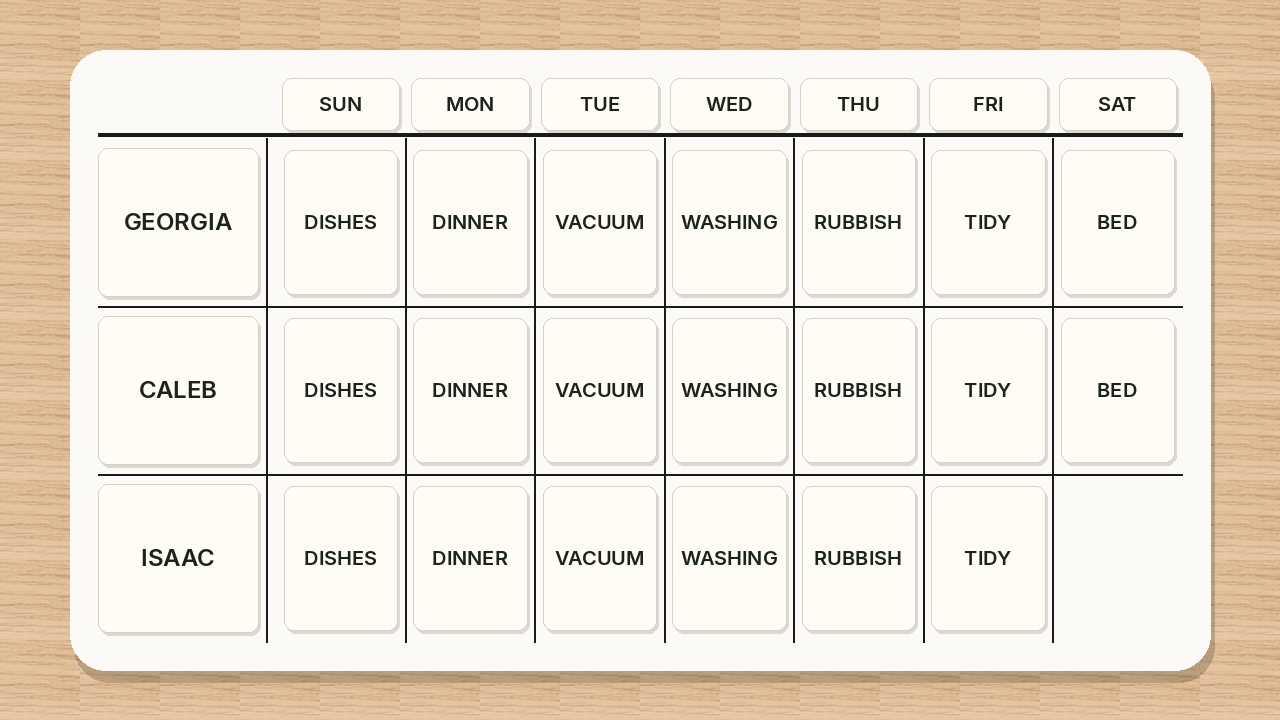
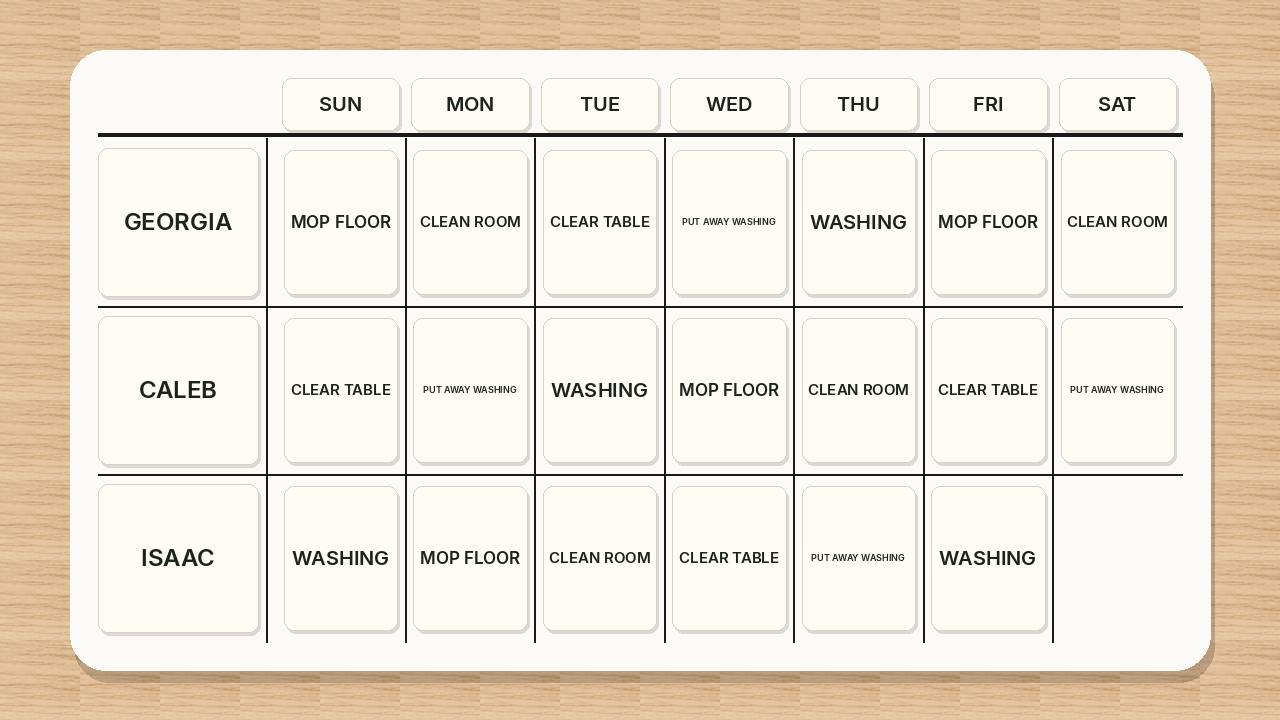
Lock Chores board and Chores Word Pack to five capital phrases
Replace leftover chore words with MOP FLOOR, CLEAN ROOM, CLEAR TABLE,
PUT AWAY WASHING, and WASHING. Sticker Pack follows the same five words.
Cache-bust to v=2.40.

diff --git a/pack-chores.html b/pack-chores.html
@@ -9,7 +9,7 @@
   <link rel="preconnect" href="https://fonts.googleapis.com">
   <link rel="preconnect" href="https://fonts.gstatic.com" crossorigin>
   <link href="https://fonts.googleapis.com/css2?family=DM+Sans:opsz,wght@9..40,600&family=Fraunces:opsz,wght@9..144,600&family=Nunito+Sans:wght@500;700;800&display=swap" rel="stylesheet">
-  <link rel="stylesheet" href="css/styles.css?v=2.39">
+  <link rel="stylesheet" href="css/styles.css?v=2.40">
 </head>
 <body>
   <div id="site-header"></div>
@@ -17,16 +17,16 @@
     <div>
       <div class="board-stage photo-stage" role="region" aria-label="Chores Word Pack on light wood.">
         <figure class="hero-photo-frame">
-          <img src="images/chores-pack-hero.png" width="1280" height="720" alt="Thirteen white magnetic chore word tiles on light wood, including DISHES, VACUUM, and MOP FLOOR.">
+          <img src="images/chores-pack-hero.png" width="1280" height="720" alt="Five white magnetic chore word tiles on light wood: MOP FLOOR, CLEAN ROOM, CLEAR TABLE, PUT AWAY WASHING, and WASHING.">
         </figure>
       </div>
     </div>
     <aside class="buy-panel">
       <p class="kicker">Word pack</p>
       <h1>Chores Word Pack</h1>
-      <p class="muted">Chore words only — SET TABLE, DISHES, VACUUM, RUBBISH, and the rest. <strong>Day Word Pack is separate.</strong> Same magnet size as names on the boards.</p>
+      <p class="muted">Chore words only — MOP FLOOR, CLEAN ROOM, CLEAR TABLE, PUT AWAY WASHING, and WASHING. <strong>Day Word Pack is separate.</strong> Same magnet size as names on the boards.</p>
       <div class="price-row">
-        <span class="muted">13 tiles · magnetic</span>
+        <span class="muted">5 tiles · magnetic</span>
         <strong>$18</strong>
       </div>
       <button class="btn" id="add-pack" type="button" data-sku="pack-chores">Add to cart</button>
@@ -34,7 +34,7 @@
   </main>
   <footer id="site-footer" class="wrap"></footer>
   <script src="js/store.js"></script>
-  <script src="js/site.js?v=2.39"></script>
+  <script src="js/site.js?v=2.40"></script>
   <script src="js/photo-pack.js"></script>
 </body>
 </html>

diff --git a/pack-sticker.html b/pack-sticker.html
@@ -8,7 +8,7 @@
   <link rel="preconnect" href="https://fonts.googleapis.com">
   <link rel="preconnect" href="https://fonts.gstatic.com" crossorigin>
   <link href="https://fonts.googleapis.com/css2?family=Fraunces:opsz,wght@9..144,600&family=Nunito+Sans:wght@500;700;800&display=swap" rel="stylesheet">
-  <link rel="stylesheet" href="css/styles.css?v=2.39">
+  <link rel="stylesheet" href="css/styles.css?v=2.40">
 </head>
 <body>
   <div id="site-header"></div>
@@ -25,7 +25,7 @@
       <h1>Sticker Pack</h1>
       <p class="muted">Flat, non-magnetic stickers — same chore words as the Chores Word Pack, without the magnet back. Use on paper charts.</p>
       <div class="price-row">
-        <span class="muted">13 stickers · non-magnetic</span>
+        <span class="muted">5 stickers · non-magnetic</span>
         <strong>$12</strong>
       </div>
       <button class="btn" id="add-pack" type="button">Add to cart</button>
@@ -33,7 +33,7 @@
   </main>
   <footer id="site-footer" class="wrap"></footer>
   <script src="js/store.js"></script>
-  <script src="js/site.js?v=2.39"></script>
+  <script src="js/site.js?v=2.40"></script>
   <script>
     document.addEventListener("DOMContentLoaded", function () {
       document.getElementById("sticker-tray").innerHTML = FamilyBoard.CHORES_WORDS.map(function (word) {

diff --git a/js/store.js b/js/store.js
@@ -10,19 +10,11 @@
 
   const DAY_WORDS = ["SUN", "MON", "TUE", "WED", "THU", "FRI", "SAT"];
   const CHORES_WORDS = [
-    "SET TABLE",
-    "DISHWASHER",
-    "FOLD WASHING",
-    "DISHES",
-    "DRY DISHES",
-    "SWEEP FLOOR",
-    "MOW LAWNS",
-    "MAKE DINNER",
-    "RUBBISH",
-    "RECYCLING",
-    "PUT OUT BINS",
-    "VACUUM",
-    "MOP FLOOR"
+    "MOP FLOOR",
+    "CLEAN ROOM",
+    "CLEAR TABLE",
+    "PUT AWAY WASHING",
+    "WASHING"
   ];
   const JOBS_WORDS = [
     "TIDY ROOM",
@@ -128,7 +120,7 @@
       name: "Chores Word Pack",
       href: "pack-chores.html",
       price: 18,
-      tileCount: 13,
+      tileCount: 5,
       magnetic: true
     },
     "pack-days": {
@@ -171,7 +163,7 @@
       name: "Sticker Pack",
       href: "pack-sticker.html",
       price: 12,
-      tileCount: 13,
+      tileCount: 5,
       magnetic: false
     }
   };

diff --git a/pack-emoji.html b/pack-emoji.html
@@ -8,7 +8,7 @@
   <link rel="preconnect" href="https://fonts.googleapis.com">
   <link rel="preconnect" href="https://fonts.gstatic.com" crossorigin>
   <link href="https://fonts.googleapis.com/css2?family=Fraunces:opsz,wght@9..144,600&family=Nunito+Sans:wght@500;700;800&display=swap" rel="stylesheet">
-  <link rel="stylesheet" href="css/styles.css?v=2.39">
+  <link rel="stylesheet" href="css/styles.css?v=2.40">
 </head>
 <body>
   <div id="site-header"></div>
@@ -33,7 +33,7 @@
   </main>
   <footer id="site-footer" class="wrap"></footer>
   <script src="js/store.js"></script>
-  <script src="js/site.js?v=2.39"></script>
+  <script src="js/site.js?v=2.40"></script>
   <script>
     document.addEventListener("DOMContentLoaded", function () {
       document.getElementById("emoji-tray").innerHTML = FamilyBoard.EMOJIS.map(function (emoji) {

diff --git a/house-rules.html b/house-rules.html
@@ -9,7 +9,7 @@
   <link rel="preconnect" href="https://fonts.googleapis.com">
   <link rel="preconnect" href="https://fonts.gstatic.com" crossorigin>
   <link href="https://fonts.googleapis.com/css2?family=DM+Sans:ital,opsz,wght@0,9..40,500;0,9..40,600;0,9..40,700;1,9..40,500&family=Fraunces:opsz,wght@9..144,600&family=Nunito+Sans:wght@500;700;800&display=swap" rel="stylesheet">
-  <link rel="stylesheet" href="css/styles.css?v=2.39">
+  <link rel="stylesheet" href="css/styles.css?v=2.40">
 </head>
 <body>
   <div id="site-header"></div>
@@ -38,7 +38,7 @@
   </main>
   <footer id="site-footer" class="wrap"></footer>
   <script src="js/store.js"></script>
-  <script src="js/site.js?v=2.39"></script>
+  <script src="js/site.js?v=2.40"></script>
   <script src="js/photo-board.js"></script>
 </body>
 </html>

diff --git a/meal-plan.html b/meal-plan.html
@@ -9,7 +9,7 @@
   <link rel="preconnect" href="https://fonts.googleapis.com">
   <link rel="preconnect" href="https://fonts.gstatic.com" crossorigin>
   <link href="https://fonts.googleapis.com/css2?family=DM+Sans:ital,opsz,wght@0,9..40,500;0,9..40,600;0,9..40,700;1,9..40,500&family=Fraunces:opsz,wght@9..144,600&family=Nunito+Sans:wght@500;700;800&display=swap" rel="stylesheet">
-  <link rel="stylesheet" href="css/styles.css?v=2.39">
+  <link rel="stylesheet" href="css/styles.css?v=2.40">
 </head>
 <body>
   <div id="site-header"></div>
@@ -38,7 +38,7 @@
   </main>
   <footer id="site-footer" class="wrap"></footer>
   <script src="js/store.js"></script>
-  <script src="js/site.js?v=2.39"></script>
+  <script src="js/site.js?v=2.40"></script>
   <script src="js/photo-board.js"></script>
 </body>
 </html>

diff --git a/routines.html b/routines.html
@@ -9,7 +9,7 @@
   <link rel="preconnect" href="https://fonts.googleapis.com">
   <link rel="preconnect" href="https://fonts.gstatic.com" crossorigin>
   <link href="https://fonts.googleapis.com/css2?family=DM+Sans:ital,opsz,wght@0,9..40,500;0,9..40,600;0,9..40,700;1,9..40,500&family=Fraunces:opsz,wght@9..144,600&family=Nunito+Sans:wght@500;700;800&display=swap" rel="stylesheet">
-  <link rel="stylesheet" href="css/styles.css?v=2.39">
+  <link rel="stylesheet" href="css/styles.css?v=2.40">
 </head>
 <body>
   <div id="site-header"></div>
@@ -49,7 +49,7 @@
   </main>
   <footer id="site-footer" class="wrap"></footer>
   <script src="js/store.js"></script>
-  <script src="js/site.js?v=2.39"></script>
+  <script src="js/site.js?v=2.40"></script>
   <script src="js/photo-board.js"></script>
 </body>
 </html>

diff --git a/shopping-list.html b/shopping-list.html
@@ -9,7 +9,7 @@
   <link rel="preconnect" href="https://fonts.googleapis.com">
   <link rel="preconnect" href="https://fonts.gstatic.com" crossorigin>
   <link href="https://fonts.googleapis.com/css2?family=DM+Sans:ital,opsz,wght@0,9..40,500;0,9..40,600;0,9..40,700;1,9..40,500&family=Fraunces:opsz,wght@9..144,600&family=Nunito+Sans:wght@500;700;800&display=swap" rel="stylesheet">
-  <link rel="stylesheet" href="css/styles.css?v=2.39">
+  <link rel="stylesheet" href="css/styles.css?v=2.40">
 </head>
 <body>
   <div id="site-header"></div>
@@ -38,7 +38,7 @@
   </main>
   <footer id="site-footer" class="wrap"></footer>
   <script src="js/store.js"></script>
-  <script src="js/site.js?v=2.39"></script>
+  <script src="js/site.js?v=2.40"></script>
   <script src="js/photo-board.js"></script>
 </body>
 </html>

diff --git a/weekly.html b/weekly.html
@@ -9,7 +9,7 @@
   <link rel="preconnect" href="https://fonts.googleapis.com">
   <link rel="preconnect" href="https://fonts.gstatic.com" crossorigin>
   <link href="https://fonts.googleapis.com/css2?family=DM+Sans:ital,opsz,wght@0,9..40,500;0,9..40,600;0,9..40,700;1,9..40,500&family=Fraunces:opsz,wght@9..144,600&family=Nunito+Sans:wght@500;700;800&display=swap" rel="stylesheet">
-  <link rel="stylesheet" href="css/styles.css?v=2.39">
+  <link rel="stylesheet" href="css/styles.css?v=2.40">
 </head>
 <body>
   <div id="site-header"></div>
@@ -46,7 +46,7 @@
   </main>
   <footer id="site-footer" class="wrap"></footer>
   <script src="js/store.js"></script>
-  <script src="js/site.js?v=2.39"></script>
+  <script src="js/site.js?v=2.40"></script>
   <script src="js/photo-board.js"></script>
 </body>
 </html>

diff --git a/chores.html b/chores.html
@@ -9,7 +9,7 @@
   <link rel="preconnect" href="https://fonts.googleapis.com">
   <link rel="preconnect" href="https://fonts.gstatic.com" crossorigin>
   <link href="https://fonts.googleapis.com/css2?family=DM+Sans:ital,opsz,wght@0,9..40,500;0,9..40,600;0,9..40,700;1,9..40,500&family=Fraunces:opsz,wght@9..144,600&family=Nunito+Sans:wght@500;700;800&display=swap" rel="stylesheet">
-  <link rel="stylesheet" href="css/styles.css?v=2.39">
+  <link rel="stylesheet" href="css/styles.css?v=2.40">
 </head>
 <body>
   <div id="site-header"></div>
@@ -46,7 +46,7 @@
   </main>
   <footer id="site-footer" class="wrap"></footer>
   <script src="js/store.js"></script>
-  <script src="js/site.js?v=2.39"></script>
+  <script src="js/site.js?v=2.40"></script>
   <script src="js/chores.js"></script>
 </body>
 </html>

diff --git a/pack-days.html b/pack-days.html
@@ -9,7 +9,7 @@
   <link rel="preconnect" href="https://fonts.googleapis.com">
   <link rel="preconnect" href="https://fonts.gstatic.com" crossorigin>
   <link href="https://fonts.googleapis.com/css2?family=DM+Sans:opsz,wght@9..40,600&family=Fraunces:opsz,wght@9..144,600&family=Nunito+Sans:wght@500;700;800&display=swap" rel="stylesheet">
-  <link rel="stylesheet" href="css/styles.css?v=2.39">
+  <link rel="stylesheet" href="css/styles.css?v=2.40">
 </head>
 <body>
   <div id="site-header"></div>
@@ -34,7 +34,7 @@
   </main>
   <footer id="site-footer" class="wrap"></footer>
   <script src="js/store.js"></script>
-  <script src="js/site.js?v=2.39"></script>
+  <script src="js/site.js?v=2.40"></script>
   <script src="js/photo-pack.js"></script>
 </body>
 </html>

diff --git a/pen-holder.html b/pen-holder.html
@@ -9,7 +9,7 @@
   <link rel="preconnect" href="https://fonts.googleapis.com">
   <link rel="preconnect" href="https://fonts.gstatic.com" crossorigin>
   <link href="https://fonts.googleapis.com/css2?family=DM+Sans:opsz,wght@9..40,600&family=Fraunces:opsz,wght@9..144,600&family=Nunito+Sans:wght@500;700;800&display=swap" rel="stylesheet">
-  <link rel="stylesheet" href="css/styles.css?v=2.39">
+  <link rel="stylesheet" href="css/styles.css?v=2.40">
 </head>
 <body>
   <div id="site-header"></div>
@@ -34,7 +34,7 @@
   </main>
   <footer id="site-footer" class="wrap"></footer>
   <script src="js/store.js"></script>
-  <script src="js/site.js?v=2.39"></script>
+  <script src="js/site.js?v=2.40"></script>
   <script src="js/photo-pack.js"></script>
 </body>
 </html>
